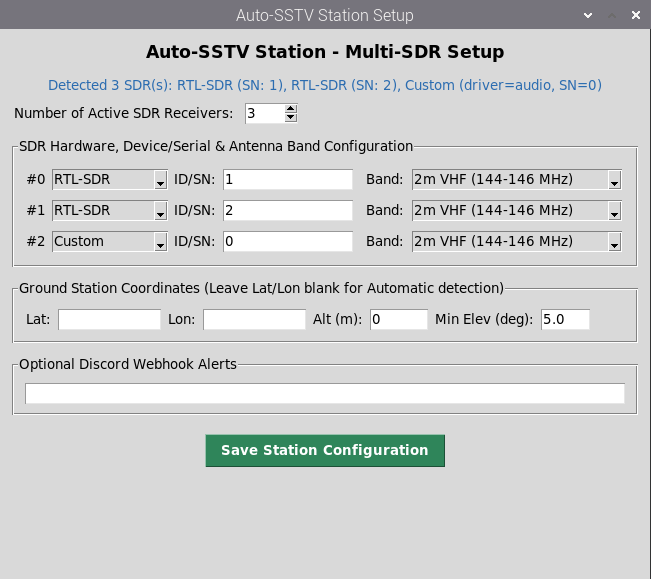
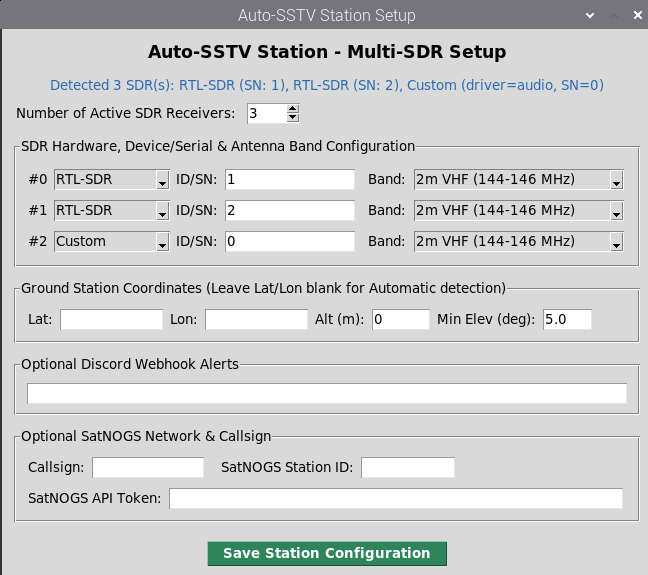
Add optional SatNOGS and Callsign fields to setup wizard and update GUI screenshot

Changed region(s): [[0.0, 0.0, 1.0, 1.0], [0.9568, 0.0, 0.9877, 0.0296], [0.8951, 0.0, 0.9259, 0.0296]]

diff --git a/setup.py b/setup.py
@@ -80,7 +80,7 @@ def format_device_string(sdr_type, dev_id):
             return tmpl.format(id=dev_id)
     return dev_id
 
-def write_station_files(sdrs, lat, lon, alt, min_elev, webhook):
+def write_station_files(sdrs, lat, lon, alt, min_elev, webhook, callsign='', satnogs_token='', satnogs_id=''):
     home = os.path.expanduser("~")
     cfg_path = os.path.join(home, "config.py")
     start_path = os.path.join(home, "start_sstv.sh")
@@ -197,7 +197,10 @@ def run_cli():
     alt = input("Altitude in meters: ").strip() or "0"
     min_elev = input("Minimum horizon elevation in degrees [5.0]: ").strip() or "5.0"
     webhook = input("\nOptional Discord Webhook URL [Leave blank to skip]: ").strip()
-    write_station_files(sdrs, lat, lon, alt, min_elev, webhook)
+    callsign = input("Optional Amateur Radio Callsign (e.g. SV2HZK) [Leave blank to skip]: ").strip().upper()
+    satnogs_id = input("Optional SatNOGS Ground Station ID [Leave blank to skip]: ").strip()
+    satnogs_token = input("Optional SatNOGS API Token [Leave blank to skip]: ").strip()
+    write_station_files(sdrs, lat, lon, alt, min_elev, webhook, callsign, satnogs_token, satnogs_id)
     print("\nSaved ~/config.py, ~/.config/gqrx/sdr_*.conf, and ~/start_sstv.sh!")
 
 def run_gui():
@@ -268,6 +271,18 @@ def run_gui():
     sn_tok_var = tk.StringVar()
     sn_id_var = tk.StringVar()
     tk.Entry(wh_frame, textvariable=wh_var, width=68).pack(fill="x")
+    sn_frame = tk.LabelFrame(root, text="Optional SatNOGS Network & Callsign", padx=10, pady=8)
+    sn_frame.pack(fill="x", **pad)
+    sr1 = tk.Frame(sn_frame)
+    sr1.pack(fill="x", pady=2)
+    tk.Label(sr1, text="Callsign:").pack(side="left")
+    tk.Entry(sr1, textvariable=cs_var, width=12).pack(side="left", padx=4)
+    tk.Label(sr1, text="SatNOGS Station ID:").pack(side="left", padx=(10, 0))
+    tk.Entry(sr1, textvariable=sn_id_var, width=10).pack(side="left", padx=4)
+    sr2 = tk.Frame(sn_frame)
+    sr2.pack(fill="x", pady=(6, 2))
+    tk.Label(sr2, text="SatNOGS API Token:").pack(side="left")
+    tk.Entry(sr2, textvariable=sn_tok_var, width=48, show="*").pack(side="left", padx=4, fill="x", expand=True)
     def on_save():
         band_map = {
             "2m VHF (144-146 MHz)": [(144000000, 146000000)],
@@ -291,7 +306,7 @@ def run_gui():
                 "ranges": band_map[label],
                 "label": label,
             })
-        write_station_files(sdrs, lat_var.get().strip() or None, lon_var.get().strip() or None, alt_var.get().strip() or "0", elev_var.get().strip() or "5.0", wh_var.get())
+        write_station_files(sdrs, lat_var.get().strip() or None, lon_var.get().strip() or None, alt_var.get().strip() or "0", elev_var.get().strip() or "5.0", wh_var.get(), cs_var.get(), sn_tok_var.get(), sn_id_var.get())
         messagebox.showinfo("Saved", "Station configuration saved to ~/config.py, ~/.config/gqrx/sdr_.conf, and ~/start_sstv.sh!")
         root.destroy()
     tk.Button(root, text="Save Station Configuration", command=on_save, bg="#2f855a", fg="white", font=("Sans", 10, "bold"), padx=14, pady=6).pack(pady=12)
